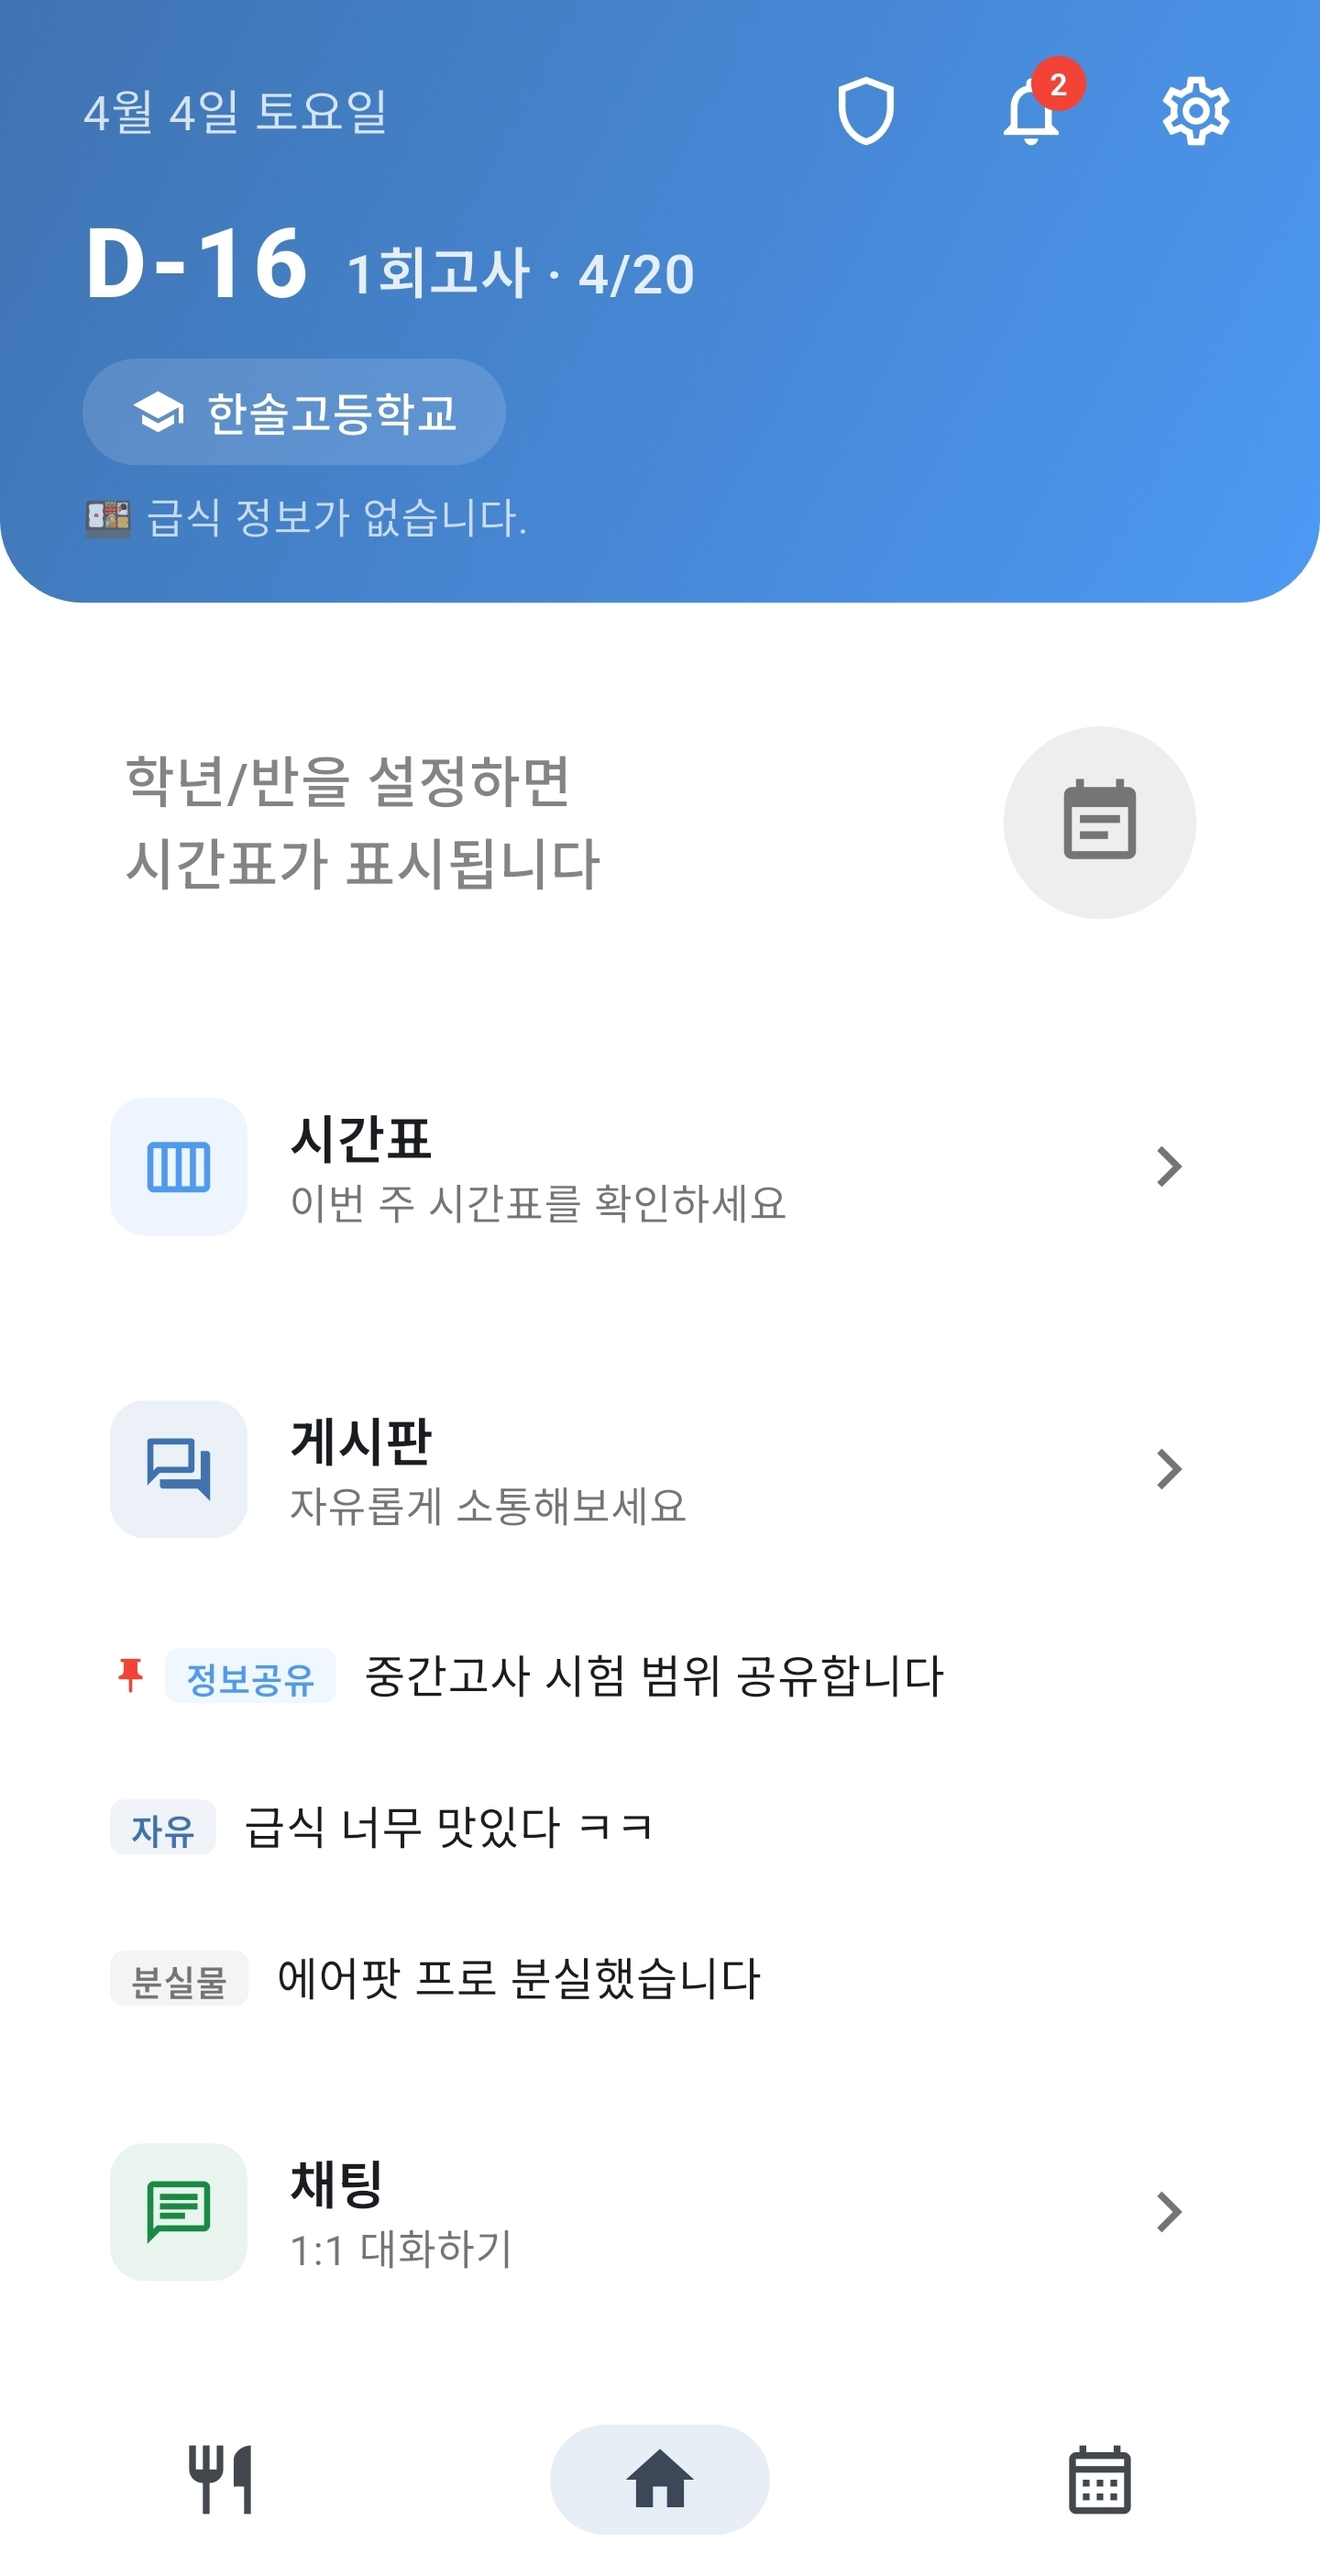
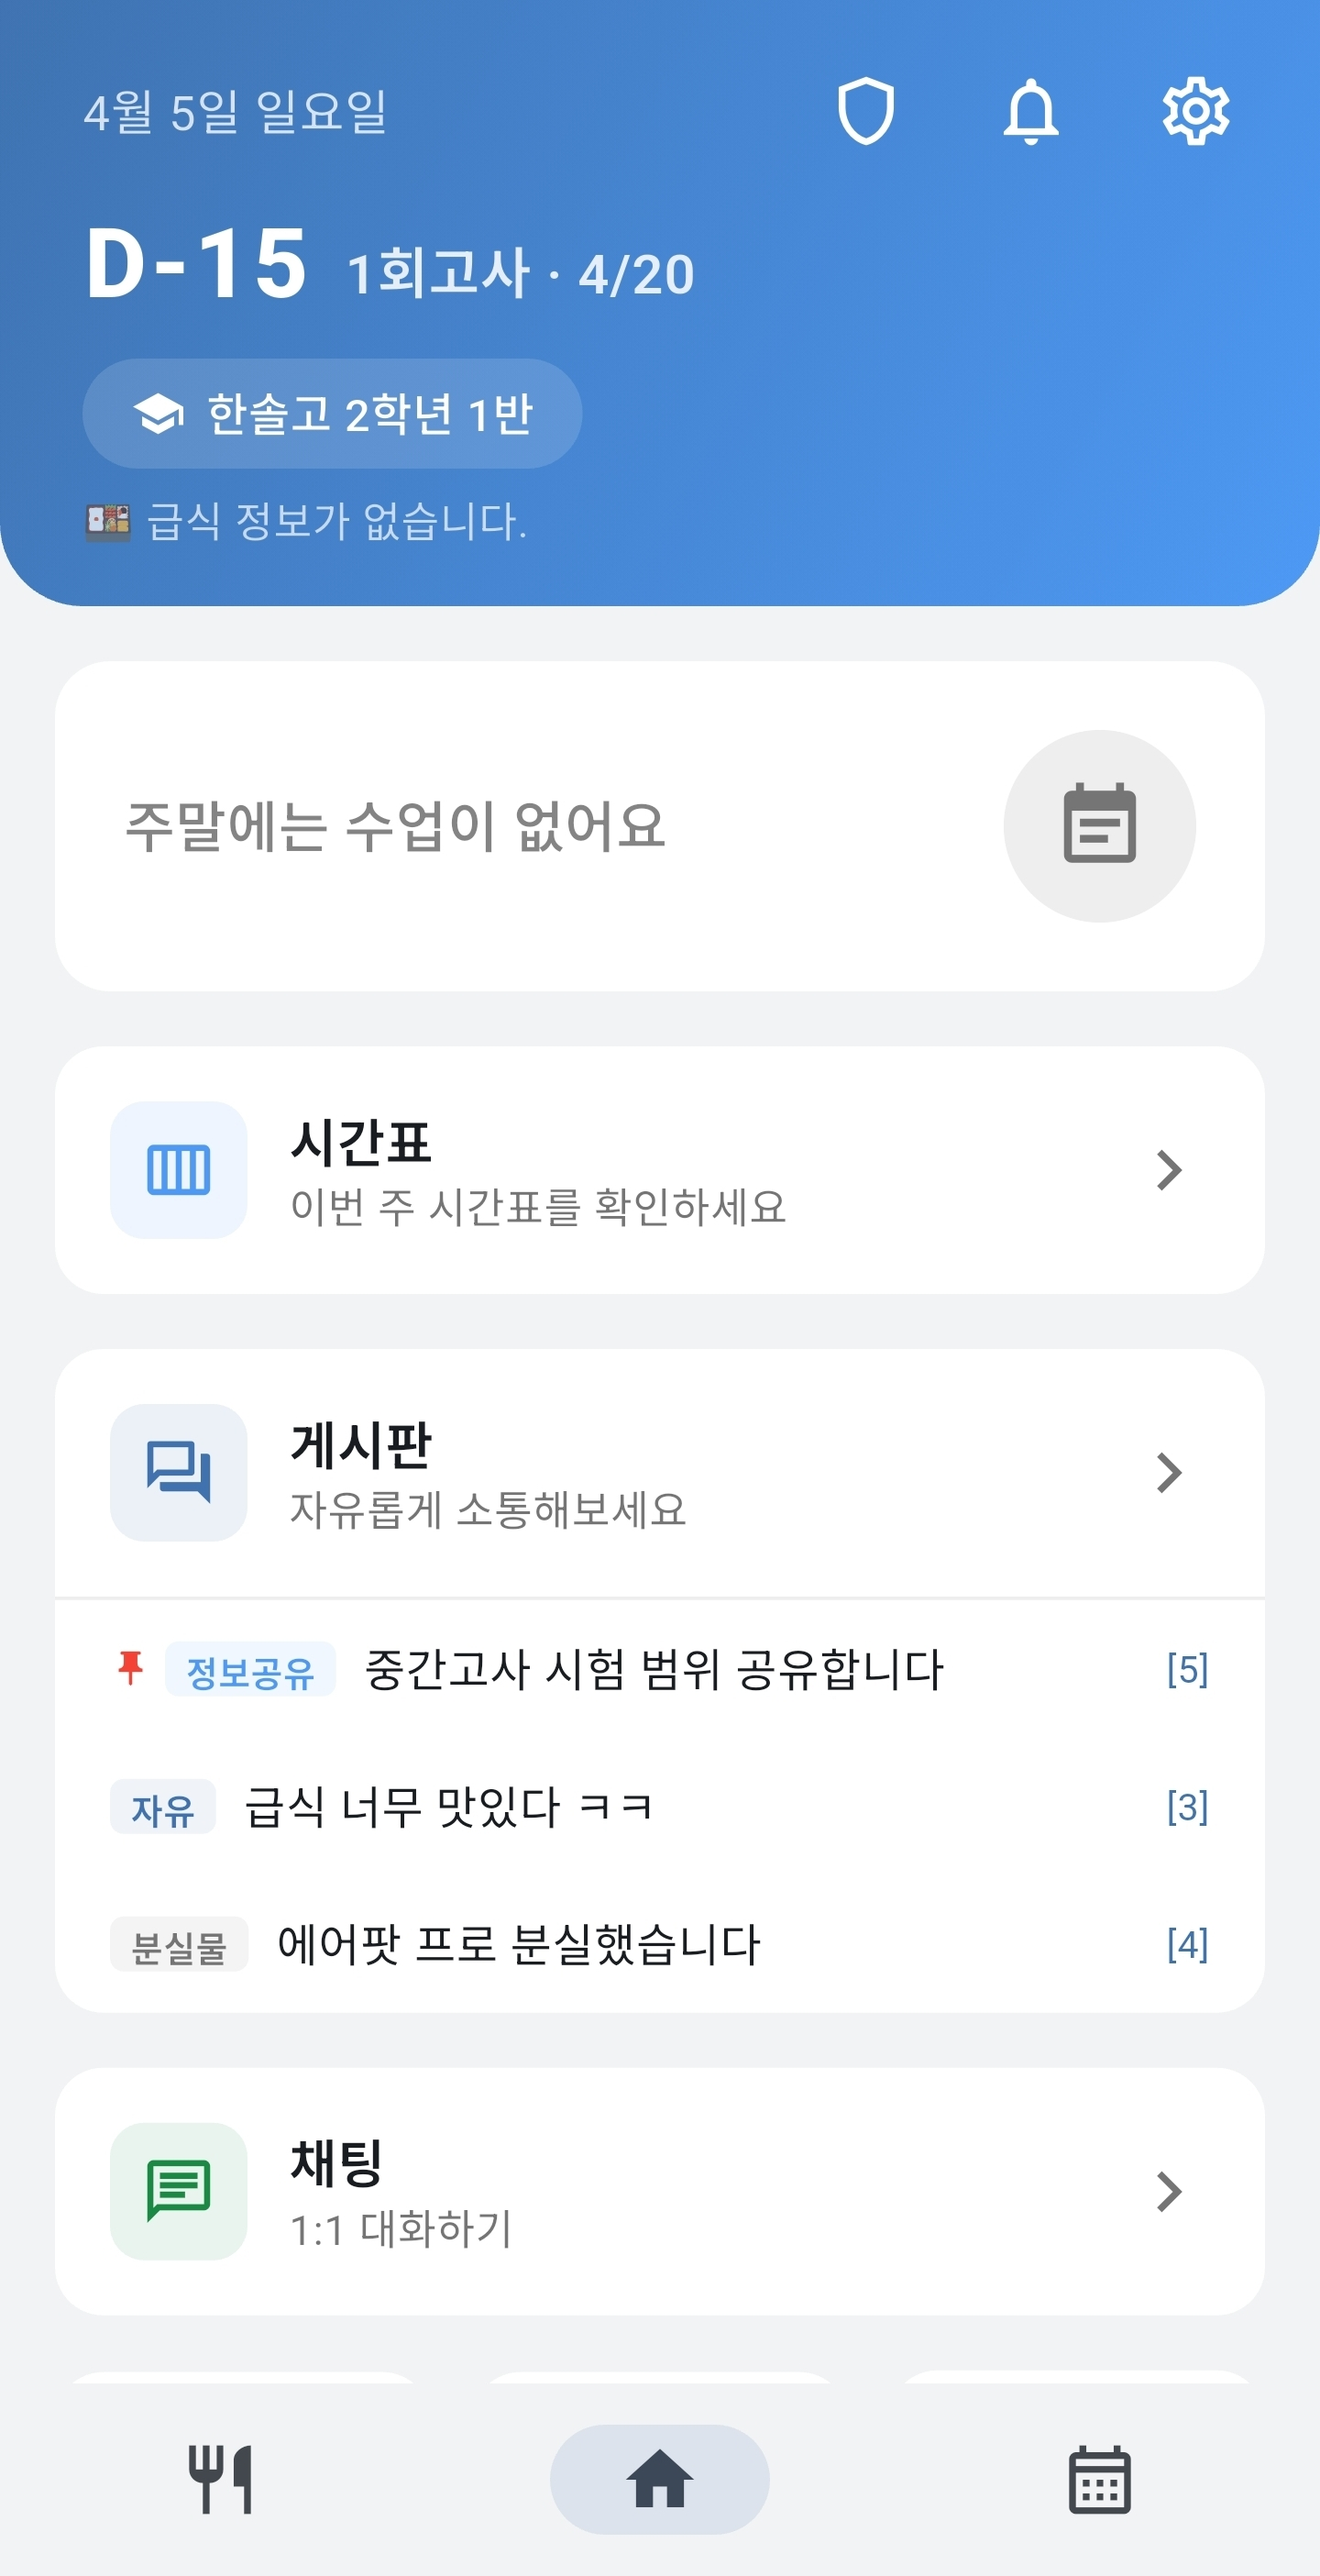
라이트 모드 card 구분 + 홈 라이트 screenshot 갱신

diff --git a/lib/main.dart b/lib/main.dart
@@ -133,7 +133,7 @@ Future<void> _requestNotificationPermission() async {
 final _lightTheme = ThemeData(
   brightness: Brightness.light,
   primaryColor: const Color(0xFF3F72AF),
-  scaffoldBackgroundColor: Colors.white,
+  scaffoldBackgroundColor: const Color(0xFFF2F3F5),
   cardColor: Colors.white,
   dividerColor: const Color(0xFFE5E5EA),
   appBarTheme: const AppBarTheme(
@@ -143,7 +143,7 @@ final _lightTheme = ThemeData(
     surfaceTintColor: Colors.transparent,
   ),
   navigationBarTheme: NavigationBarThemeData(
-    backgroundColor: Colors.white,
+    backgroundColor: const Color(0xFFF2F3F5),
     indicatorColor: const Color(0xFF3F72AF).withAlpha(30),
     surfaceTintColor: Colors.transparent,
   ),
